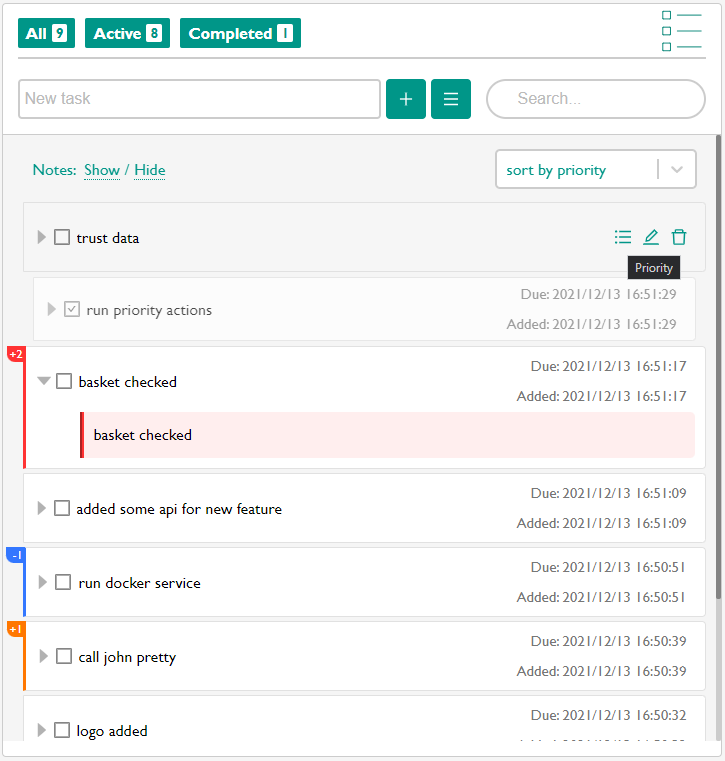
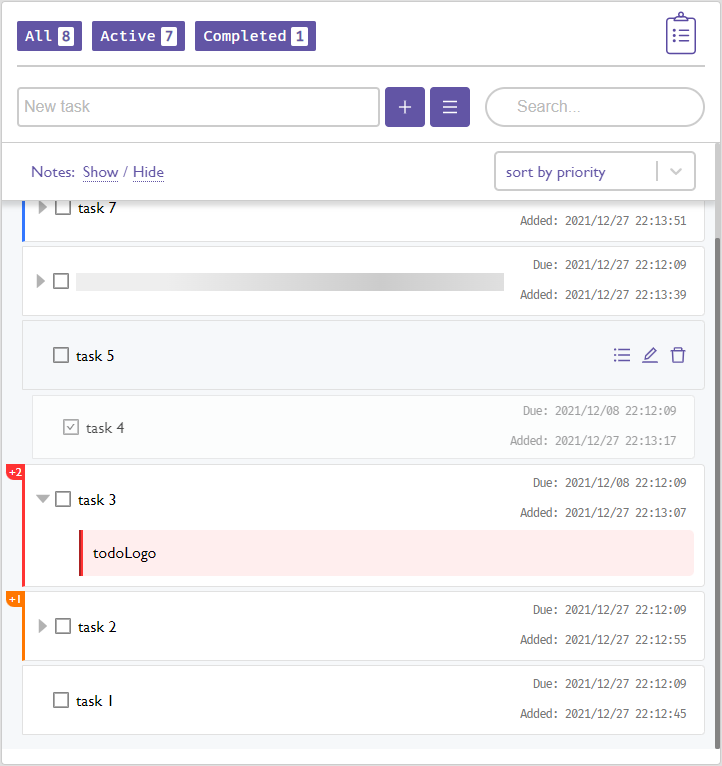
styles changed

diff --git a/src/App.css b/src/App.css
@@ -58,7 +58,7 @@
 }
 
 .todo:hover span:not(.periorityTodo) {
-  background-color: #f6f6f6;
+  background-color: #f6f8fa;
   display: inline-block !important;
 }
 
@@ -67,11 +67,11 @@
 }
 
 .todo:hover {
-  background-color: #f6f6f6;
+  background-color: #f6f8fa;
 }
 
 .dateTodo {
-  font-size: 14px;
+  font-size: 12px !important;
   margin-right: 18px;
   color: #929292;
 }
@@ -189,7 +189,7 @@
 }
 
 .datePickerStyle:focus {
-  border: 2px solid #009688;
+  border: 2px solid #6255a5;
   overflow: hidden;
 }
 
@@ -201,7 +201,7 @@
 }
 
 .inputData:focus {
-  border: 2px solid #009688;
+  border: 2px solid #6255a5;
   overflow: hidden;
 }
 
@@ -229,9 +229,9 @@
 }
 
 .btn {
-  color: #009688;
+  color: #6255a5;
   background-color: #fff;
-  border: 1px solid #009688;
+  border: 1px solid #6255a5;
   border-radius: 4px;
   outline: none;
   padding: 5px 10px;
@@ -254,7 +254,7 @@
 
 .addTodo {
   color: #fff;
-  background-color: #009688;
+  background-color: #6255a5;
   margin-right: 5px;
 }
 
@@ -267,21 +267,22 @@ header {
   justify-content: center;
   padding-bottom: 10px;
   height: 50px;
+  font-family: "Fira Code Retina";
 }
 
 header span:not(.wrapperNav) {
   margin-right: 10px;
   width: auto;
-  font-size: 16px;
+  font-size: 15px;
   height: 30px;
-  background-color: #009688;
+  background-color: #6255a5;
   color: #ffffff;
   border-radius: 2px;
   display: flex;
   justify-content: center;
   align-items: center;
   padding: 10px 8px;
-  font-weight: 600;
+  font-family: "Fira Code Retina";
 }
 
 .copyRight {
@@ -296,14 +297,14 @@ header span:not(.wrapperNav) {
   overflow: auto;
   width: inherit;
   overflow-x: hidden;
-  background-color: #f5f5f5;
+  background-color: #f6f8fa;
   border-right: 1px solid #ccc;
   border-left: 1px solid #ccc;
   padding: 5px 10px 10px 20px;
 }
 
 .titleTodo {
-  color: #009688;
+  color: #6255a5;
   font-size: 16px;
   margin-right: 5px;
 }
@@ -357,10 +358,12 @@ header span:not(.wrapperNav) {
   flex-direction: column;
   justify-content: space-between;
   height: 30px;
+  font-family: "Fira Code Retina";
+  letter-spacing: -1px;
 }
 
 .sortStyle {
-  color: #009688;
+  color: #6255a5;
   background-color: #ffffff;
   font-size: 14px;
   padding: 1px 4px;
@@ -374,7 +377,7 @@ header span:not(.wrapperNav) {
   justify-content: space-between;
   padding: 10px 10px;
   font-size: 16px;
-  color: #009688;
+  color: #6255a5;
   position: sticky;
   top: 0;
   left: 0;
@@ -405,7 +408,7 @@ header span:not(.wrapperNav) {
 }
 
 .showNote {
-  border-bottom: 1px dotted #009688;
+  border-bottom: 1px dotted #6255a5;
   margin: 0 5px;
   cursor: pointer;
 }
@@ -431,7 +434,7 @@ header span:not(.wrapperNav) {
   width: auto;
   height: 38px;
   color: #ffffff;
-  background-color: #009688;
+  background-color: #6255a5;
 }
 
 .noteMessage {
@@ -447,7 +450,7 @@ header span:not(.wrapperNav) {
 }
 
 .noteMessage:focus {
-  border: 2px solid #009688;
+  border: 2px solid #6255a5;
   overflow: hidden;
 }
 
@@ -461,12 +464,12 @@ header span:not(.wrapperNav) {
 }
 
 .react-datepicker__today-button {
-  background: #009688 !important;
+  background: #6255a5 !important;
   color: #fff !important;
 }
 
 .react-datepicker__header {
-  background-color: #009688 !important;
+  background-color: #6255a5 !important;
 }
 
 .react-datepicker__input-time-container {
@@ -474,7 +477,7 @@ header span:not(.wrapperNav) {
   width: 100%;
   margin: unset !important;
   text-align: center !important;
-  background-color: #009688 !important;
+  background-color: #6255a5 !important;
   color: #fff !important;
 }
 
@@ -525,7 +528,7 @@ label {
 }
 
 ::-webkit-scrollbar-thumb:hover {
-  background: #009688;
+  background: #6255a5;
 }
 
 /* placeholder Color */

diff --git a/src/components/TodoForm.jsx b/src/components/TodoForm.jsx
@@ -1,9 +1,8 @@
 import { useState, useRef, useEffect } from "react";
-import { AiOutlinePlus, AiOutlineMenu, AiOutlineTag } from "react-icons/ai";
+import { AiOutlinePlus, AiOutlineMenu } from "react-icons/ai";
 import DatePicker from "react-datepicker";
 import "react-datepicker/dist/react-datepicker.css";
 import Select from "react-select";
-import makeAnimated from "react-select/animated";
 import getAbsolutlyDate from "../common/dateTimeConverter";
 
 const PriorityOptions = [
@@ -13,14 +12,6 @@ const PriorityOptions = [
   { value: "-1", label: "-1" },
 ];
 
-const TagsOptions = [
-  { value: "tag1", label: "tag1" },
-  { value: "tag2", label: "tag2" },
-  { value: "tag3", label: "tag3" },
-];
-
-const animatedComponents = makeAnimated();
-
 const customStyles = {
   control: (base) => ({
     ...base,
@@ -28,43 +19,15 @@ const customStyles = {
     border: "1px solid #ccc",
     boxShadow: "0 0 0 1px #ccc",
     ":hover": {
-      border: "1px solid #009688 !important",
-      boxShadow: "0 0 0 1px #009688 !important",
+      border: "1px solid #6255a5 !important",
+      boxShadow: "0 0 0 1px #6255a5 !important",
     },
   }),
   option: (base, state) => ({
     ...base,
-    backgroundColor: state.isSelected && "#009688",
+    backgroundColor: state.isSelected && "#6255a5",
     ":active": {
-      backgroundColor: state.isSelected && "#009688",
-    },
-  }),
-  menu: (base) => ({
-    ...base,
-  }),
-  menuList: (base) => ({
-    ...base,
-  }),
-  indicatorSeparator: (base) => ({
-    ...base,
-    width: 2,
-  }),
-};
-const tagsStyles = {
-  control: (base) => ({
-    ...base,
-    border: "1px solid #ccc",
-    boxShadow: "0 0 0 1px #ccc",
-    ":hover": {
-      border: "1px solid #009688 !important",
-      boxShadow: "0 0 0 1px #009688 !important",
-    },
-  }),
-  option: (base, state) => ({
-    ...base,
-    backgroundColor: state.isSelected && "#009688",
-    ":active": {
-      backgroundColor: state.isSelected && "#009688",
+      backgroundColor: state.isSelected && "#6255a5",
     },
   }),
   menu: (base) => ({
@@ -207,30 +170,6 @@ const TodoForm = ({ edit, submitTodo, selectedOption }) => {
           value={noteMessage}
           onChange={noteMessageHandler}
         />
-        <div className="tagsWrapper">
-          <label htmlFor="">Tags</label>
-          <div className="tagsBtnWrapper">
-            <div className="btnAddTags">
-              <Select
-                className="tagsInput"
-                closeMenuOnSelect={false}
-                components={animatedComponents}
-                placeholder="select tags"
-                isMulti
-                options={TagsOptions}
-                styles={tagsStyles}
-              />
-            </div>
-            <button
-              title="Add Tag"
-              disabled="disabled"
-              className="btn btnAddTag"
-              type="submit"
-            >
-              <AiOutlineTag fontSize="18px" />
-            </button>
-          </div>
-        </div>
       </div>
     </form>
   );

diff --git a/src/components/Todo.jsx b/src/components/Todo.jsx
@@ -102,7 +102,7 @@ const Todo = ({
           </span>
           <span style={{ marginLeft: 0, marginRight: "5px" }}>
             {todo.isCompleted ? (
-              <AiOutlineCheckSquare onClick={onComplete} color="#009688" />
+              <AiOutlineCheckSquare onClick={onComplete} color="#6255a5" />
             ) : (
               <AiOutlineBorder onClick={onComplete} color="#5c5c5c" />
             )}
@@ -144,17 +144,17 @@ const Todo = ({
           <span>
             <AiOutlineBars
               onClick={changeTodo}
-              color="#009688"
+              color="#6255a5"
               title="Priority"
             />
           </span>
           <span>
-            <AiOutlineEdit onClick={onEdit} color="#009688" title="Edit" />
+            <AiOutlineEdit onClick={onEdit} color="#6255a5" title="Edit" />
           </span>
           <span style={{ marginRight: "8px" }}>
             <AiOutlineDelete
               onClick={onDelete}
-              color="#009688"
+              color="#6255a5"
               title="Delete"
             />
           </span>

diff --git a/src/components/TodoList.jsx b/src/components/TodoList.jsx
@@ -43,15 +43,15 @@ const TodoList = ({
       border: "1px solid #ccc",
       boxShadow: "0 0 0 1px #ccc",
       ":hover": {
-        border: "1px solid #009688 !important",
-        boxShadow: "0 0 0 1px #009688 !important",
+        border: "1px solid #6255a5 !important",
+        boxShadow: "0 0 0 1px #6255a5 !important",
       },
     }),
     option: (base, state) => ({
       ...base,
-      backgroundColor: state.isSelected && "#009688",
+      backgroundColor: state.isSelected && "#6255a5",
       ":active": {
-        backgroundColor: state.isSelected && "#009688",
+        backgroundColor: state.isSelected && "#6255a5",
       },
     }),
     menu: (base) => ({
@@ -62,7 +62,7 @@ const TodoList = ({
     }),
     singleValue: (base) => ({
       ...base,
-      color: "#009688",
+      color: "#6255a5",
     }),
     indicatorSeparator: (base) => ({
       ...base,
